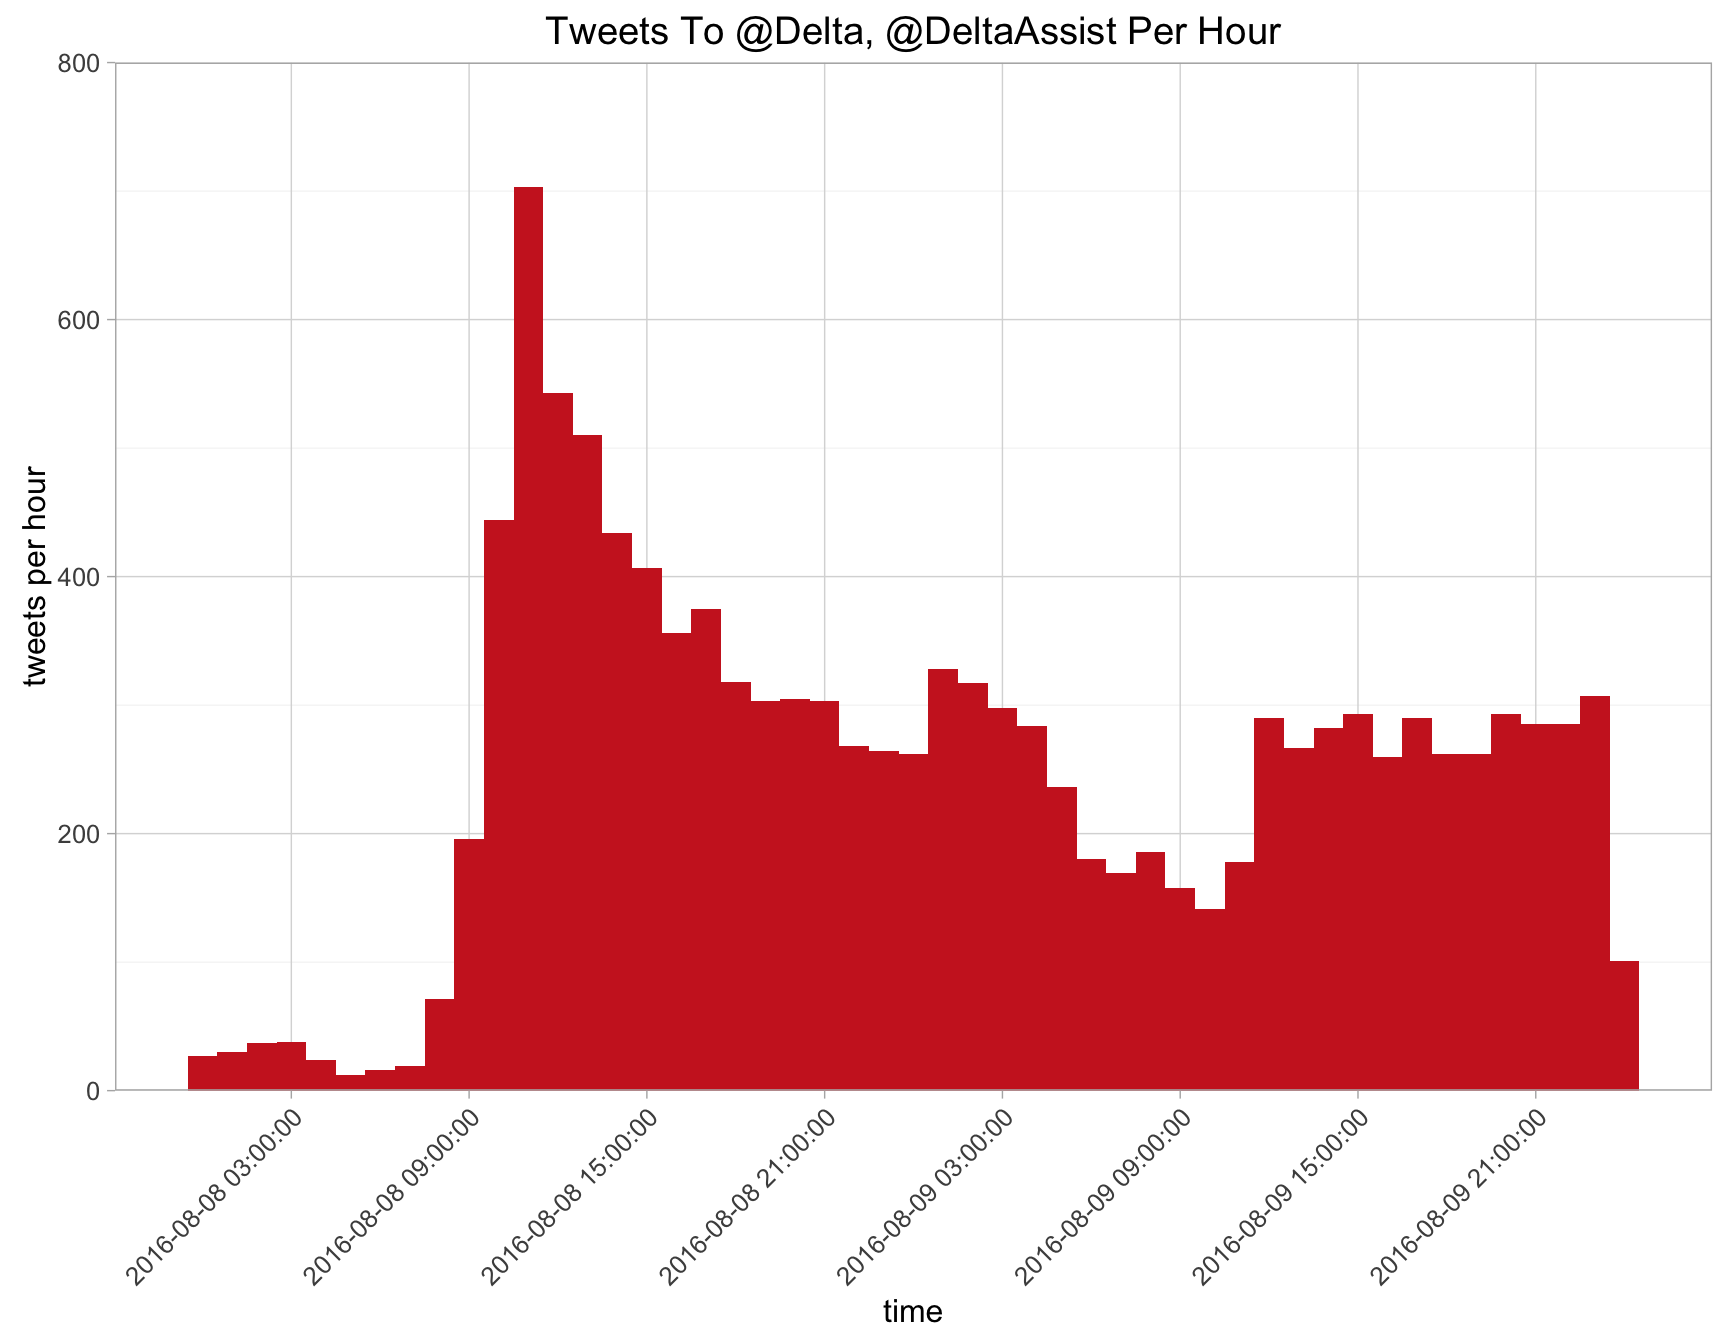
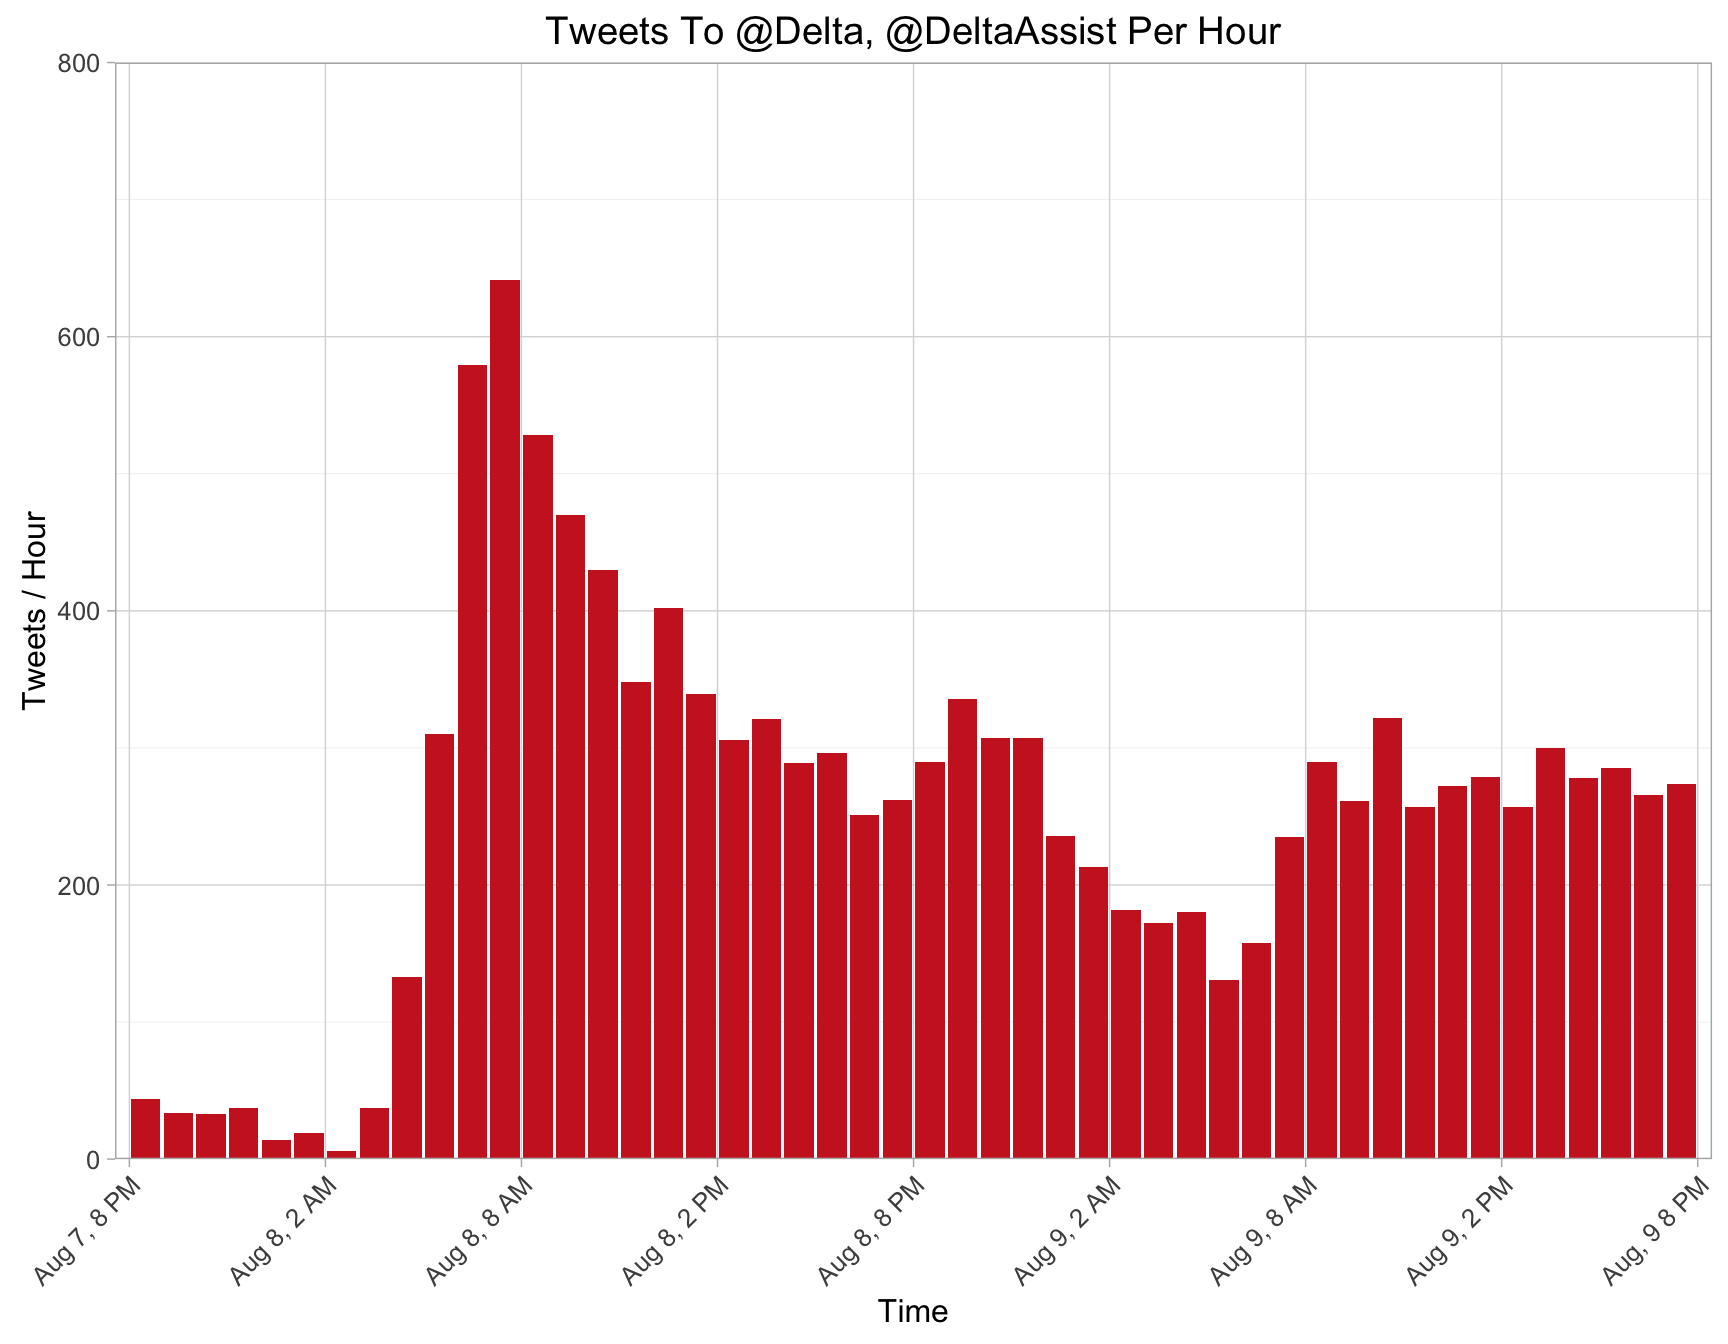
Typos and language

diff --git a/README.md b/README.md
@@ -1,2 +1,2 @@
-# nbcfail
-An analysis of #nbcfail tweets during the 2016 Olympics
+# \#nbcfail
+An analysis of #nbcfail tweets during the 2016 Olympics, compared with tweets to Delta during a large outage. 
